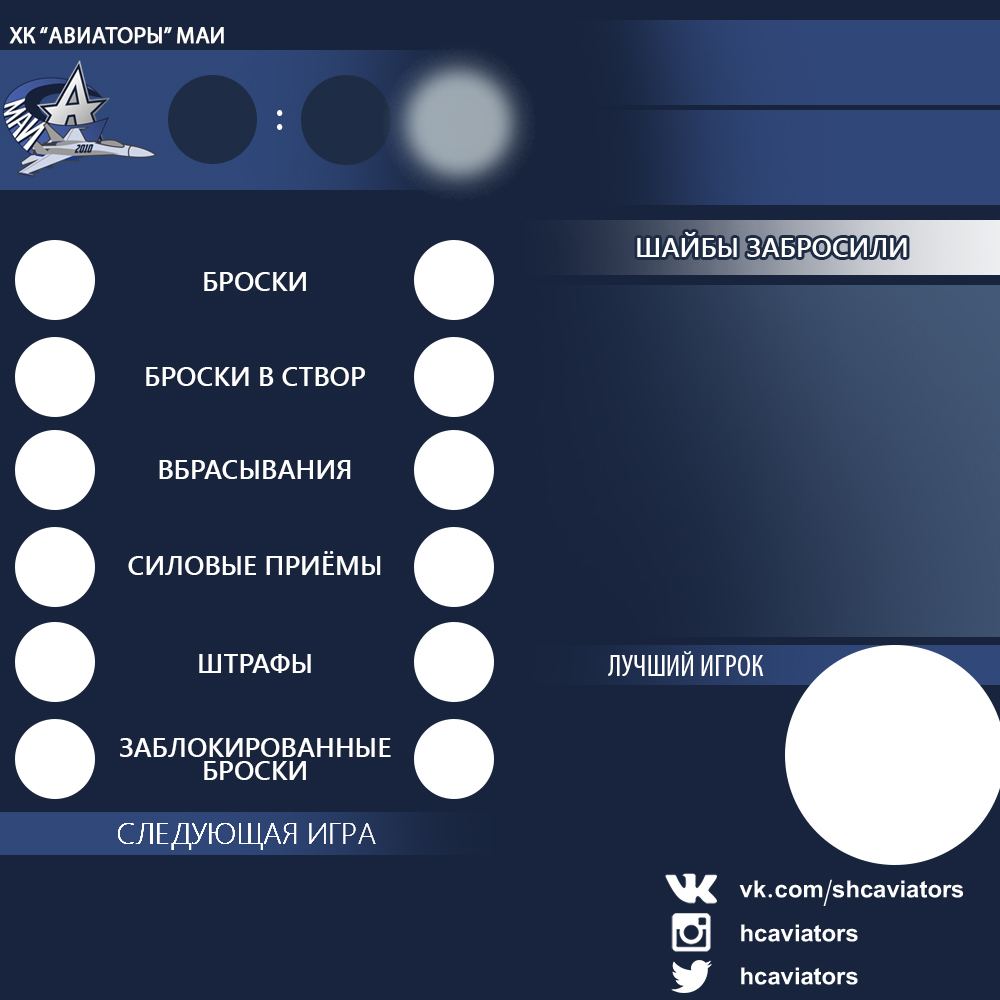
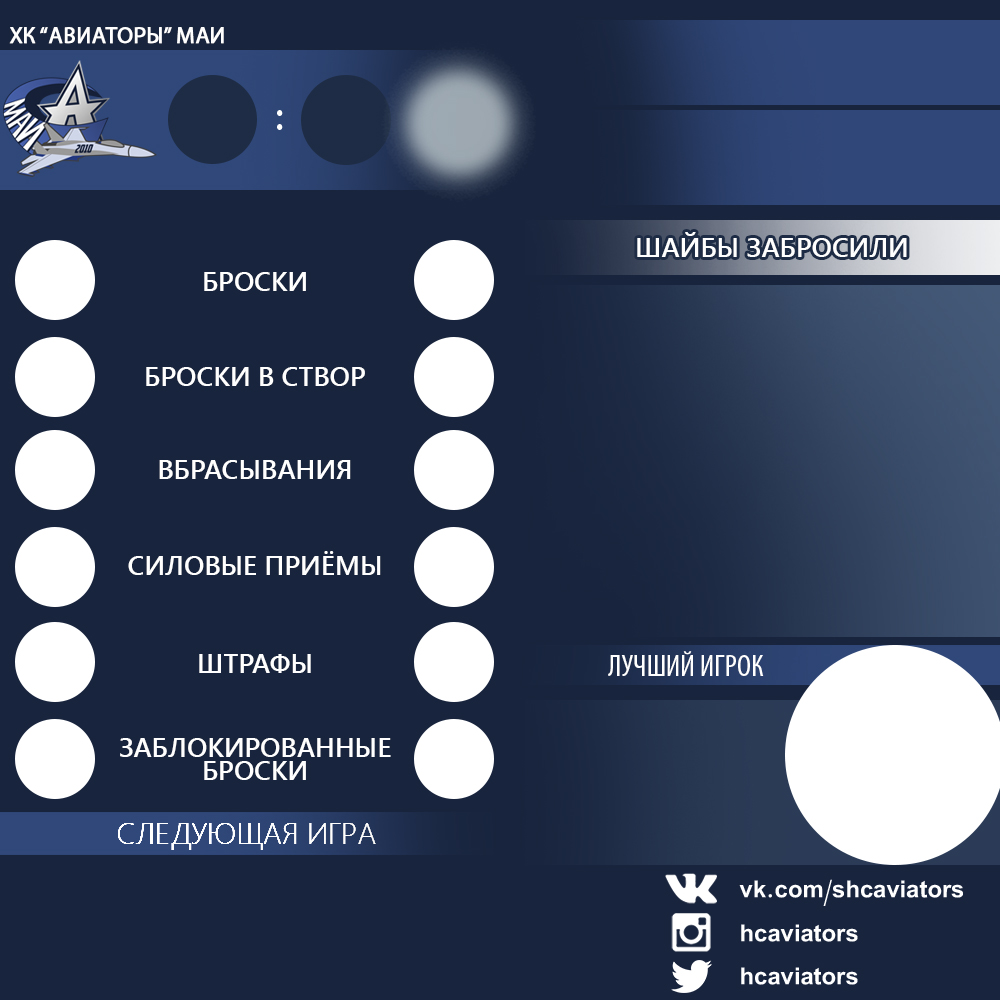
bestPlayer gen update

diff --git a/Aviators/Aviators/Program.cs b/Aviators/Aviators/Program.cs
@@ -23,38 +23,38 @@ namespace Aviators
             #region Тест для генератора статы
 
 
-            var ig = new ImageGenerator();
+            //var ig = new ImageGenerator();
 
 
-            Game g = new Game();
-            g.Date = DateTime.Now;
-            g.Viewers = 551;
-            g.Team2 = "Динамо";
-            g.Tournament = new Tournament("МСХЛ");
-            g.Score = new Tuple<int, int>(7, 6);
+            //Game g = new Game();
+            //g.Date = DateTime.Now;
+            //g.Viewers = 551;
+            //g.Team2 = "Динамо";
+            //g.Tournament = new Tournament("МСХЛ");
+            //g.Score = new Tuple<int, int>(7, 6);
 
-            var kek = new Random();
+            //var kek = new Random();
 
-            g.Stat1.Shots = kek.Next(0, 100);
-            g.Stat2.Shots = kek.Next(0, 100);
-            g.Stat1.ShotsIn = kek.Next(0, 100);
-            g.Stat2.ShotsIn = kek.Next(0, 100);
-            g.Stat1.Faceoff = kek.Next(0, 100);
-            g.Stat2.Faceoff = kek.Next(0, 100);
-            g.Stat1.Hits = kek.Next(0, 100);
-            g.Stat2.Shots = kek.Next(0, 100);
-            g.Stat1.Penalty = kek.Next(0, 100);
-            g.Stat2.Penalty = kek.Next(0, 100);
-            g.Stat1.BlockShots = kek.Next(0, 100);
-            g.Stat2.BlockShots = kek.Next(0, 100);
+            //g.Stat1.Shots = kek.Next(0, 100);
+            //g.Stat2.Shots = kek.Next(0, 100);
+            //g.Stat1.ShotsIn = kek.Next(0, 100);
+            //g.Stat2.ShotsIn = kek.Next(0, 100);
+            //g.Stat1.Faceoff = kek.Next(0, 100);
+            //g.Stat2.Faceoff = kek.Next(0, 100);
+            //g.Stat1.Hits = kek.Next(0, 100);
+            //g.Stat2.Shots = kek.Next(0, 100);
+            //g.Stat1.Penalty = kek.Next(0, 100);
+            //g.Stat2.Penalty = kek.Next(0, 100);
+            //g.Stat1.BlockShots = kek.Next(0, 100);
+            //g.Stat2.BlockShots = kek.Next(0, 100);
 
-            g.BestPlayer = new Player(59, "Андрей", "Калинин");
+            //g.BestPlayer = new Player(59, "Андрей", "Калинин");
 
-            g.Place = new Place(@"Малая Арена ВТБ, г. Москва");
+            //g.Place = new Place(@"Малая Арена ВТБ, г. Москва");
 
-            ig.GameStat(g);
+            //ig.GameStat(g);
 
-            return;
+            //return;
             #endregion
 
             if (InitFromCode || args.Length > 0 && args[0] == "init")

diff --git a/Aviators/Aviators/Bot/ImageGenerator.cs b/Aviators/Aviators/Bot/ImageGenerator.cs
@@ -40,7 +40,7 @@ namespace Aviators
             var scoreFont = new Font("Segoe UI", 56);
             var statFont = new Font(statFonts.Families[4], 42);
             var nextGameFont = new Font(statFonts.Families[3], 25);
-            var bestPlayerFont = new Font(statFonts.Families[1], 55);
+            var bestPlayerFont = new Font(statFonts.Families[1], 45);
 
            
 
@@ -211,13 +211,16 @@ namespace Aviators
                 {
                     game.BestPlayer.Name,
                     game.BestPlayer.Surname,
-                    game.BestPlayer.Number.ToString(),
+                    "#" + game.BestPlayer.Number.ToString(),
                     "0+0"
                 };
 
+                var bestX = 598;
+                var bestY = 700;
+
                 for (int i = 0; i < 4; i++)
                 {
-                    var tmp = new Rectangle(608, statY + i * 96, 80, 80);
+                    var tmp = new Rectangle(bestX, bestY + i * 41, 200, 80);
                     g.DrawString(arrOfBestPlayerAttributes[i], bestPlayerFont, Brushes.White, tmp, leftFormat);
                 }
 
@@ -227,7 +230,7 @@ namespace Aviators
 
                 var rectToDraw = new Rectangle(785,645,220,220);
                 int ramka = 8;
-                DrawImageInCircle(g, new Bitmap("DB\\PlayersPhoto\\88_сорокин.jpg"), rectToDraw, ramka);
+                DrawImageInCircle(g, new Bitmap($"DB\\PlayersPhoto\\{game.BestPlayer.Number}_{game.BestPlayer.Surname}.jpg"), rectToDraw, ramka);
 
                 #endregion
             }
